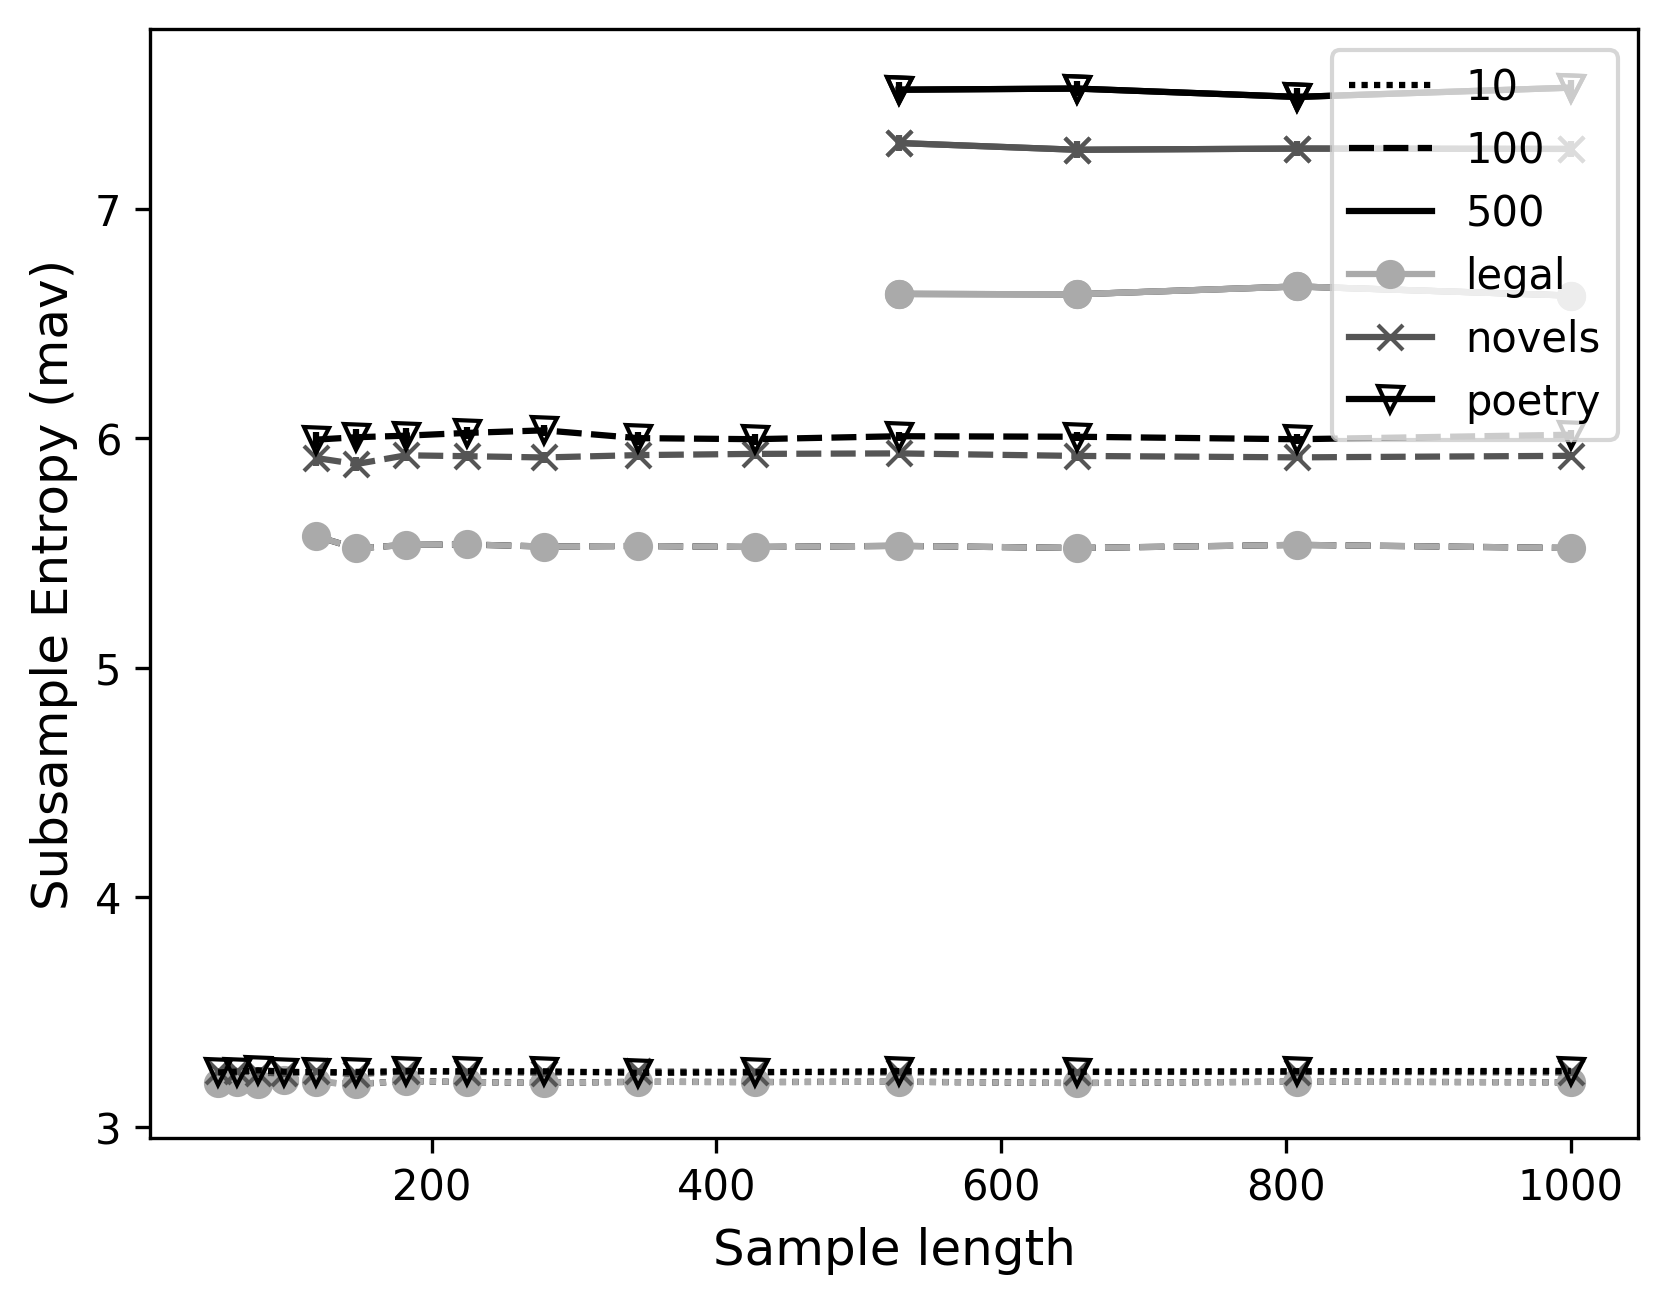
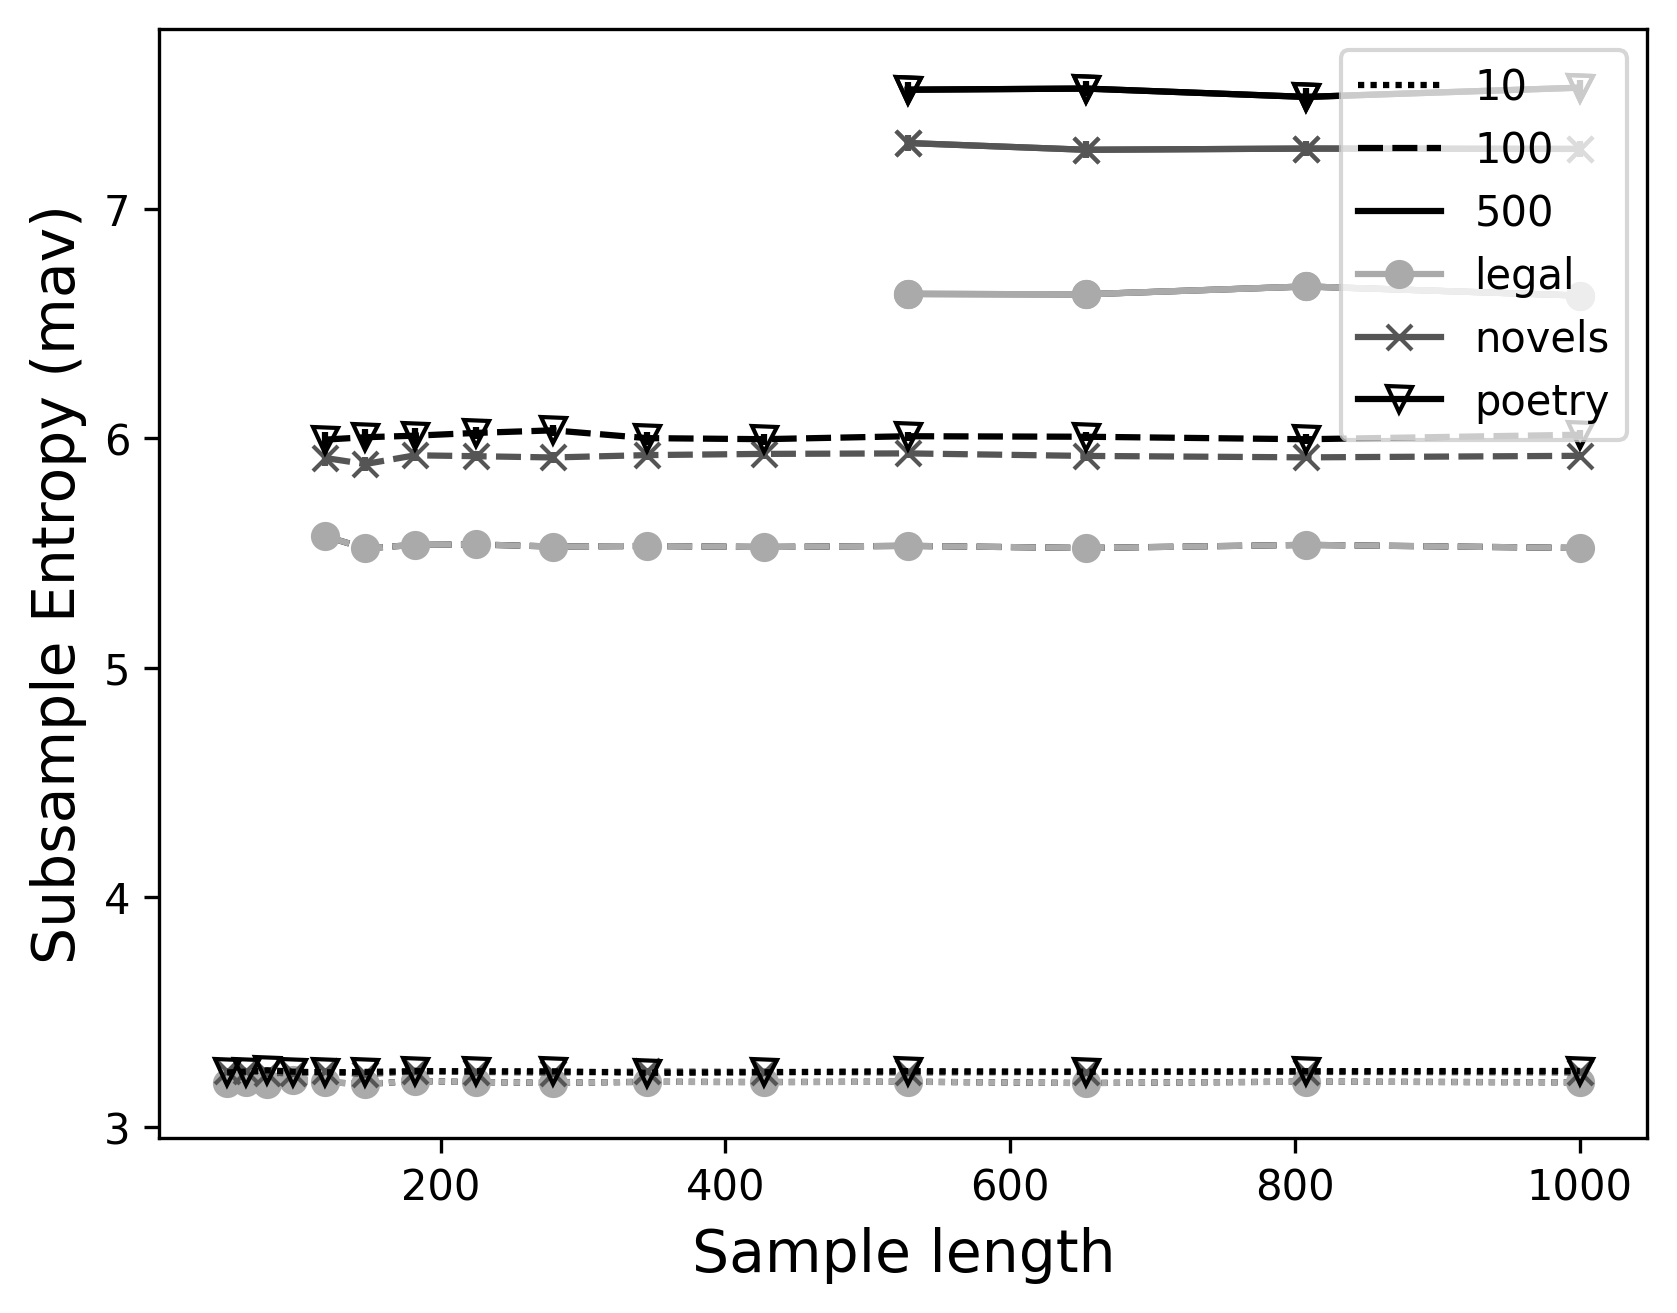
fine tune figures

diff --git a/src/sample_size_analyse_res.py b/src/sample_size_analyse_res.py
@@ -94,8 +94,8 @@ for measure_name_id, measure_name in enumerate(measure_names):
                         linestyle=linestyles[subsample_len_id],
                         marker=markers[genre_id], 
                         fillstyle=fillstyles[genre_id])
-    plt.xlabel("Sample length", fontsize=12)
-    plt.ylabel(measure_clean_names[measure_name_id], fontsize=12)
+    plt.xlabel("Sample length", fontsize=14)
+    plt.ylabel(measure_clean_names[measure_name_id], fontsize=14)
     plt.legend(loc='upper right', fontsize='10')
     plt.savefig(f"{output_folder_path}/{output_file_prefix}_{measure_name}.png", 
                 dpi=300, bbox_inches='tight')
